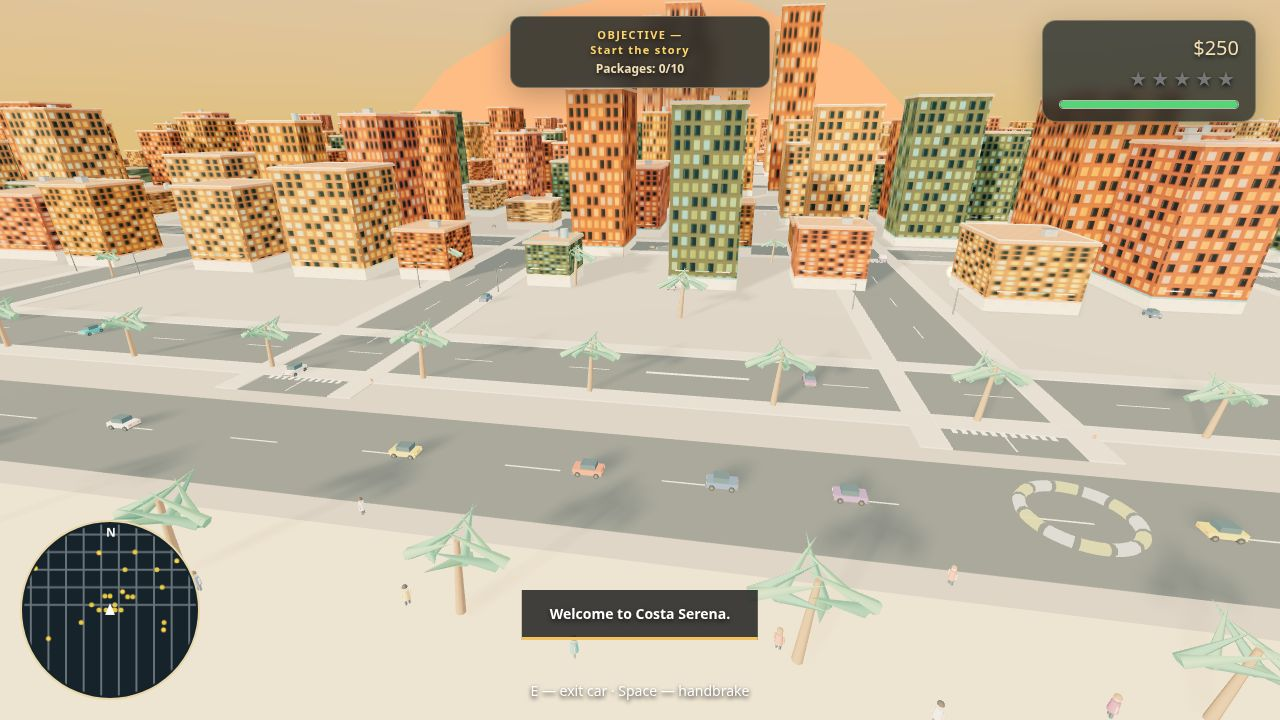
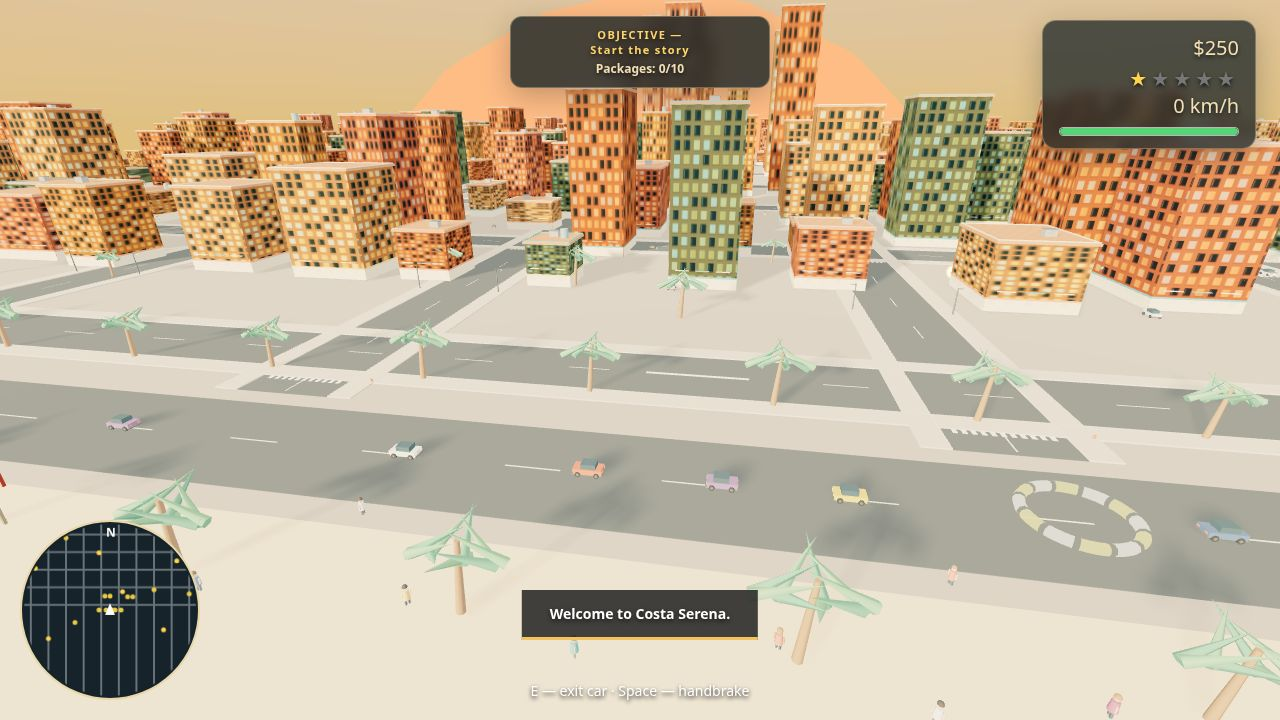
Round 6: landmarks (beach, marina, billboards), richer HUD (stars/cash/speed), cover + city restage; fix city-shot material traverse regression

diff --git a/game/src/landmarks.js b/game/src/landmarks.js
@@ -1,0 +1,41 @@
+(function () {
+  let scene, rand = () => CS.random();
+  const standard = (color, extra) => new THREE.MeshStandardMaterial(Object.assign({ color, roughness: .82 }, extra || {}));
+  function add(geometry, material, x, y, z, parent) {
+    const mesh = new THREE.Mesh(geometry, material); mesh.position.set(x, y, z); (parent || scene).add(mesh); return mesh;
+  }
+  function umbrella(x, z) {
+    const colors = [0xe85f49, 0xf3d16a, 0x3a8c88];
+    add(new THREE.CylinderGeometry(.07, .09, 2.3, 6), standard(0xeee0bd), x, 1.15, z);
+    const canopy = add(new THREE.ConeGeometry(2.2, .75, 8), standard(colors[Math.floor(rand() * colors.length)]), x, 2.5, z); canopy.rotation.y = rand() * Math.PI;
+  }
+  function lounger(x, z, yaw) {
+    const group = new THREE.Group(); group.position.set(x, .28, z); group.rotation.y = yaw; scene.add(group);
+    add(new THREE.BoxGeometry(1.15, .12, 2.15), standard(rand() < .5 ? 0x328b88 : 0xe9a252), 0, .18, 0, group);
+    for (const dx of [-.48, .48]) { const leg = add(new THREE.BoxGeometry(.08, .78, .08), standard(0xeee0bd), dx, 0, 0, group); leg.rotation.x = .32; add(new THREE.BoxGeometry(.08, .78, .08), standard(0xeee0bd), dx, -.05, -.72, group).rotation.x = -.35; }
+  }
+  function boat(x, z, yaw, color) {
+    const group = new THREE.Group(); group.position.set(x, -.05, z); group.rotation.y = yaw; scene.add(group);
+    add(new THREE.ConeGeometry(1, 5.4, 4), standard(color), 0, .15, 0, group).rotation.x = Math.PI / 2;
+    add(new THREE.BoxGeometry(1.5, .85, 1.5), standard(0xf0dfbd), 0, .7, -.2, group);
+    add(new THREE.CylinderGeometry(.045, .055, 4.2, 5), standard(0x553f30), 0, 2.7, .35, group);
+    add(new THREE.BoxGeometry(.05, 2.1, 1.5), standard(0xf4e8cd), .45, 2.9, .35, group);
+  }
+  function billboard(x, z, text, color) {
+    const group = new THREE.Group(); group.position.set(x, 0, z); scene.add(group);
+    for (const dx of [-2.1, 2.1]) add(new THREE.BoxGeometry(.28, 6.5, .3), standard(0x66513b), dx, 3.25, 0, group);
+    const canvas = document.createElement('canvas'); canvas.width = 512; canvas.height = 180; const c = canvas.getContext('2d');
+    c.fillStyle = color; c.fillRect(0, 0, 512, 180); c.strokeStyle = '#f7e2ad'; c.lineWidth = 10; c.strokeRect(8, 8, 496, 164);
+    c.fillStyle = '#fff2cf'; c.font = 'bold 48px sans-serif'; c.textAlign = 'center'; c.textBaseline = 'middle'; c.fillText(text, 256, 94);
+    const map = new THREE.CanvasTexture(canvas); map.encoding = THREE.sRGBEncoding;
+    add(new THREE.BoxGeometry(10, 3.6, .35), standard(0xffffff, { map, roughness: 1 }), 0, 7.5, 0, group);
+  }
+  function build(world) {
+    scene = world; rand = typeof CS.random === 'function' ? CS.random : CS.rng(7);
+    add(new THREE.BoxGeometry(1200, .12, 54), standard(0xd9bd87), 0, -.1, 542);
+    for (let i = 0; i < 10; i++) { const x = -165 + i * 36, z = 552 + rand() * 28; umbrella(x, z); lounger(x - 3.2, z + 3.2, .12); lounger(x + 3.1, z + 3.5, -.12); }
+    boat(-48, 755, .08, 0x327c84); boat(-25, 790, -.16, 0xd9664d); boat(16, 760, .18, 0xe3b84d);
+    billboard(-68, 477, 'SERENA COLA', '#a63e35'); billboard(88, 477, 'HOTEL SOL', '#207e79'); billboard(-90, 605, 'PIER 9', '#284e67'); billboard(105, 582, 'CAFE MAR', '#b8643e');
+  }
+  CS.landmarks = { build };
+}());

diff --git a/game/src/hud.js b/game/src/hud.js
@@ -2,7 +2,7 @@
   let root, bannerNode, centerNode, flashNode, objectiveNode, objectiveText = '', bannerUntil = 0, centerUntil = 0;
   function init() {
     root = document.getElementById('hud');
-    root.innerHTML = '<div id="cs-objective"><span class="cs-objective-title">OBJECTIVE — <span class="cs-objective-value"></span></span><span class="cs-packages"></span></div><div id="cs-stats"><div id="cs-money"></div><div id="cs-stars"></div><div class="cs-health"><i id="cs-health-fill"></i></div></div><div id="cs-hint"></div><div id="cs-banner"></div><div id="cs-center"></div><div id="cs-flash"></div>';
+    root.innerHTML = '<div id="cs-objective"><span class="cs-objective-title">OBJECTIVE — <span class="cs-objective-value"></span></span><span class="cs-packages"></span></div><div id="cs-stats"><div id="cs-money"></div><div id="cs-stars"></div><div id="cs-speed" style="display:none"></div><div class="cs-health"><i id="cs-health-fill"></i></div></div><div id="cs-hint"></div><div id="cs-banner"></div><div id="cs-center"></div><div id="cs-flash"></div>';
     bannerNode = document.getElementById('cs-banner'); centerNode = document.getElementById('cs-center'); flashNode = document.getElementById('cs-flash');
     objectiveNode = document.getElementById('cs-objective');
   }
@@ -20,10 +20,14 @@
     document.getElementById('cs-stars').innerHTML = Array.from({ length: 5 }, (_, i) => '<span class="' + (i < stars ? 'lit' : '') + '">★</span>').join('');
     document.getElementById('cs-health-fill').style.width = Math.max(0, CS.combat ? CS.combat.health : 100) + '%';
     const objective = CS.missions && CS.missions.currentObjective() || 'Free roam';
-    if (objective !== objectiveText) { objectiveText = objective; objectiveNode.querySelector('.cs-objective-value').textContent = objective; }
-    const packagesNode = objectiveNode.querySelector('.cs-packages');
-    packagesNode.textContent = typeof CS.activities !== 'undefined' ? 'Packages: ' + CS.activities.packageCount() + '/10' : '';
+    const objectiveValue = objectiveNode && objectiveNode.querySelector('.cs-objective-value');
+    if (objective !== objectiveText) { objectiveText = objective; if (objectiveValue) objectiveValue.textContent = objective; }
+    const packagesNode = objectiveNode && objectiveNode.querySelector('.cs-packages');
+    if (packagesNode) packagesNode.textContent = typeof CS.activities !== 'undefined' ? 'Packages: ' + CS.activities.packageCount() + '/10' : '';
     const player = CS.player.state;
+    const speedNode = document.getElementById('cs-speed');
+    if (player.inCar) { speedNode.textContent = Math.round(Math.abs(player.inCar.userData.speed || 0) * 3.6) + ' km/h'; speedNode.style.display = 'block'; }
+    else speedNode.style.display = 'none';
     document.getElementById('cs-hint').textContent = player.inCar ? 'E — exit car · Space — handbrake' : 'E — enter car  ·  F — punch  ·  M — mute';
     if (performance.now() > bannerUntil) bannerNode.style.display = 'none';
   }

diff --git a/game/index.html b/game/index.html
@@ -12,5 +12,5 @@
 <body>
 <canvas id="game-canvas"></canvas><div id="hud"></div><div id="debug" hidden></div>
 <section id="start-screen"><h1>COSTA SERENA</h1><p>A sunlit city with a dangerous side.</p><div class="controls">WASD move · Shift run · E enter/exit car · Space handbrake<br>F punch · M mute · Mouse look · Esc pause</div><div><button id="start-story">START STORY</button><button id="continue" hidden>CONTINUE</button><button id="free-roam">FREE ROAM</button></div></section>
-<script src="vendor/three.min.js"></script><script src="src/config.js"></script><script src="src/input.js"></script><script src="src/city.js"></script><script src="src/vehicles.js"></script><script src="src/traffic.js"></script><script src="src/pedestrians.js"></script><script src="src/player.js"></script><script src="src/police.js"></script><script src="src/combat.js"></script><script src="src/missions.js"></script><script src="src/hud.js"></script><script src="src/minimap.js"></script><script src="src/audio.js"></script><script src="src/save.js"></script><script src="src/activities.js"></script><script src="src/shots.js"></script><script src="src/main.js"></script>
+<script src="vendor/three.min.js"></script><script src="src/config.js"></script><script src="src/input.js"></script><script src="src/city.js"></script><script src="src/landmarks.js"></script><script src="src/vehicles.js"></script><script src="src/traffic.js"></script><script src="src/pedestrians.js"></script><script src="src/player.js"></script><script src="src/police.js"></script><script src="src/combat.js"></script><script src="src/missions.js"></script><script src="src/hud.js"></script><script src="src/minimap.js"></script><script src="src/audio.js"></script><script src="src/save.js"></script><script src="src/activities.js"></script><script src="src/shots.js"></script><script src="src/main.js"></script>
 </body></html>

diff --git a/game/src/shots.js b/game/src/shots.js
@@ -21,7 +21,7 @@
       policeCar(-9, 455, -Math.PI / 2); policeCar(-18, 450, -Math.PI / 2); policeCar(-27, 460, -Math.PI / 2);
       putTraffic([[0, 12, 455, Math.PI / 2], [1, 22, 455, Math.PI / 2], [2, 31, 455, Math.PI / 2]]);
       putPeople([[0, -7, 482, 1.1], [1, 4, 484, -.7], [2, 16, 481, 2.1], [3, 27, 485, -1.8], [4, -19, 480, .2], [5, 37, 482, 2.8], [6, -31, 484, -1]]);
-      camera.position.set(-16, 3.3, 438); camera.lookAt(7, 1.2, 488);
+      camera.position.set(-30, 13, 435); camera.lookAt(-5, 1, 548);
       CS.hud.banner('Find a set of wheels — the Serena story begins.', Infinity);
     }
     if (shot === 'chase') {
@@ -35,7 +35,7 @@
       CS.hud.banner('Lose the cops!', Infinity);
     }
     if (shot === 'mission') {
-      CS.missions.startMission(1); CS.missions.setTimer(87);
+      CS.missions.startMission(1); CS.missions.setTimer(87); CS.police.setStars(2);
       const marker = CS.missions.markerPos(), px = marker.x, pz = marker.z - 8;
       setPlayer(px, pz); CS.player.setView(-Math.PI / 2, .15);
       const car = cars[0]; placeCar(car, px + 3, pz, Math.PI / 2);
@@ -47,6 +47,7 @@
       CS.hud.banner('Drop the package at the north docks', Infinity);
     }
     if (shot === 'city') {
+      CS.police.setStars(1);
       const car = cars[0]; placeCar(car, 0, 455, -Math.PI / 2); setPlayer(0, 455, car);
       putTraffic([[0, 18, 455, Math.PI / 2], [1, -27, 455, -Math.PI / 2], [2, 34, 455, Math.PI / 2], [3, 0, 360, 0], [4, 120, 365, Math.PI], [5, -75, 455, Math.PI / 2], [6, 75, 455, -Math.PI / 2], [7, -35, 360, 0], [8, 155, 365, Math.PI]]);
       putPeople([[0, -12, 480, 1], [1, 6, 483, 2], [2, 24, 479, -.5], [3, 36, 484, 2.5], [4, -34, 482, 0], [5, 50, 481, 1.4], [6, -48, 478, .8], [7, 68, 484, 2.2], [8, 42, 468, -1], [9, -25, 468, 1.7]]);

diff --git a/game/src/main.js b/game/src/main.js
@@ -4,7 +4,7 @@
   function init() {
     const canvas = document.getElementById('game-canvas'); renderer = new THREE.WebGLRenderer({ canvas, antialias: true });
     renderer.shadowMap.enabled = true; renderer.shadowMap.type = THREE.PCFSoftShadowMap; renderer.outputEncoding = THREE.sRGBEncoding; renderer.toneMapping = THREE.ACESFilmicToneMapping; renderer.setPixelRatio(Math.min(window.devicePixelRatio || 1, 2)); renderer.setSize(innerWidth, innerHeight);
-    CS.state = { money: 250 }; CS.shots.apply(); scene = CS.city.build(); camera = new THREE.PerspectiveCamera(65, innerWidth / innerHeight, 0.1, 2000);
+    CS.state = { money: 250 }; CS.shots.apply(); scene = CS.city.build(); CS.landmarks.build(scene); camera = new THREE.PerspectiveCamera(65, innerWidth / innerHeight, 0.1, 2000);
     CS.player.create(scene); CS.player.setCamera(camera); CS.input.init(canvas);
     CS.hud.init(); CS.minimap.init(); CS.police.init(scene); CS.audio.init();
     CS.vehicles.spawnParkedCars(scene, 42); CS.traffic.spawn(scene, 22); CS.pedestrians.spawn(scene, 34);

diff --git a/main.ts b/main.ts
@@ -21,7 +21,7 @@ import { buildDossier } from './vendor/makefun-game.ts';
 const here = fileURLToPath(new URL('.', import.meta.url));
 const out = process.env.MAKEFUN_OUTPUT_DIR ?? '/output';
 const GAME_TITLE = 'Costa Serena';
-const GAME_VERSION = '1.0.5';
+const GAME_VERSION = '1.0.9';
 console.log(`Packaging ${GAME_TITLE} v${GAME_VERSION}`);
 
 mkdirSync(out, { recursive: true });
